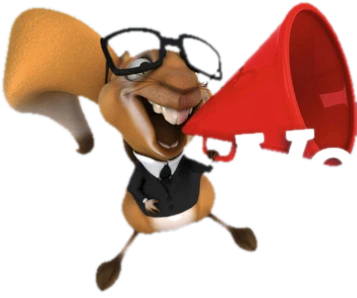
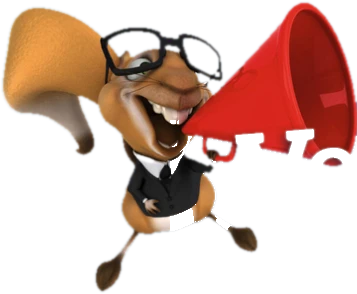
Eichhörnchen nur noch ganz: zwei vollständige Posen aus dem Kanzlei-Material

diff --git a/index.html b/index.html
@@ -51,7 +51,7 @@
     <h1 id="hero-h"><span data-only="klar">Steuern. <em>Persönlich</em> beraten.</span><span data-only="nuss">Wir knacken Ihre <em>Steuernuss.</em></span></h1>
     <p class="hero-satz"><span data-only="klar">Familienunternehmen, Freiberufler und Privatpersonen. Zwei Büros, feste Ansprechpartner, Belege per App.</span><span data-only="nuss">Für Familienunternehmen, Freiberufler und Privatpersonen. Zwei Büros, feste Ansprechpartner, Belege per App.</span></p>
     <div class="hero-knoepfe"><a class="btn" href="kontakt.html">Nachricht schreiben</a><a class="btn btn-zweit" href="digital.html">Belege senden</a></div>
-    <div data-only="nuss"><picture><source srcset="img/eich-eichel.webp" type="image/webp"><img class="hero-figur eich-hero" src="img/eich-eichel.png" alt="" width="344" height="390" loading="lazy"></picture></div>
+    <div data-only="nuss"><picture><source srcset="img/eich-ganz.webp" type="image/webp"><img class="hero-figur eich-hero" src="img/eich-ganz.png" alt="" width="344" height="506" loading="lazy"></picture></div>
   </div>
   <div class="hero-bilder">
     <figure class="b1"><picture><source srcset="img/empfang.webp" type="image/webp"><img src="img/empfang.jpg" alt="Empfang der Kanzlei in Neuenkirchen mit Holzbuchstaben „Willkommen“ und dem Logo an der Wand" width="920" height="404"></picture><figcaption>Empfang, Alphons-Hecking-Platz 11</figcaption></figure>
@@ -80,7 +80,7 @@
   </div>
 </section>
 
-<section class="abschnitt ein digital-figur" aria-labelledby="dp-h"><div class="wrap spalten-2">
+<section class="abschnitt ein" aria-labelledby="dp-h"><div class="wrap spalten-2">
   <div><span class="nummer">Persönlich</span><h2 id="dp-h">Feste Ansprechpartner. Zwei Büros.</h2>
     <div class="portraits">
   <figure><picture><source srcset="img/frank-bode.webp" type="image/webp"><img src="img/frank-bode.jpg" alt="Frank Bode" width="400" height="400" loading="lazy"></picture><figcaption><b>Frank Bode</b>Steuerberater, Partner seit 2011</figcaption></figure>
@@ -93,7 +93,7 @@
     <p>Mit der App „Meine Steuern“ fotografieren Sie Belege, wenn Sie sie in der Hand haben, und senden sie direkt an uns. Kein Belegesammeln am Jahresende. Über die Belegzentrale tauschen Sie Unterlagen sicher aus und erhalten ein digitales Belegarchiv. Bei Fragen am Rechner verbinden wir uns per TeamViewer.</p>
     <ul class="haken"><li>App für Android und iPhone, kostenlos</li><li>Belegzentrale mit Login über die Website</li><li>Fernwartung per TeamViewer</li><li>Formulare zum Herunterladen</li></ul>
     <p style="margin-top:1.5rem"><a class="btn btn-zweit" href="digital.html">So funktioniert die App</a></p></div>
-</div><div data-only="nuss"><picture><source srcset="img/eich-sparschwein.webp" type="image/webp"><img class="hero-figur eich-digital" src="img/eich-sparschwein.png" alt="" width="280" height="317" loading="lazy"></picture></div></section>
+</div></section>
 
 <section class="abschnitt abschnitt-flaeche ein" aria-labelledby="orte-h"><div class="wrap">
   <span class="nummer">Standorte</span><h2 id="orte-h">Neuenkirchen und Metelen</h2>
@@ -106,7 +106,7 @@
 <section class="abschnitt karriere ein" aria-labelledby="job-h"><div class="wrap spalten-text">
   <div><span class="nummer">Karriere</span><h2 id="job-h">Knacken Sie mit uns die Steuernüsse.</h2></div>
   <div><p class="gross">Wir bilden aus und freuen uns über Bewerbungen als Steuerfachangestellte, Bilanzbuchhalter und für die Ausbildung. Bewerbungen nimmt Frank Bode entgegen.</p><p><a class="btn" href="karriere.html">Zur Karriereseite</a></p></div>
-</div><div data-only="nuss"><picture><source srcset="img/eich-megafon.webp" type="image/webp"><img class="hero-figur hoernchen-karriere" src="img/eich-megafon.png" alt="" width="357" height="298" loading="lazy"></picture></div></section>
+</div><div data-only="nuss"><picture><source srcset="img/eich-megafon.webp" type="image/webp"><img class="hero-figur hoernchen-karriere" src="img/eich-megafon.png" alt="" width="357" height="294" loading="lazy"></picture></div></section>
 
 <section class="abschnitt ein" id="kontakt" aria-labelledby="kontakt-h"><div class="wrap kompakt">
   <div><span class="nummer">Kontakt</span><h2 id="kontakt-h">Schreiben Sie uns.</h2><p class="leise">Telefon oder E-Mail genügt, wir melden uns zu den Öffnungszeiten. Vertrauliche Unterlagen bitte über die <a href="digital.html">App oder die Belegzentrale</a>.</p><p>Oder direkt: <a href="tel:+4959739490" data-tel>05973 94 90-0</a><br><a href="mailto:info@stb-neuenkirchen.de" data-mail>info@stb-neuenkirchen.de</a></p></div>

diff --git a/karriere.html b/karriere.html
@@ -48,7 +48,7 @@
 <section class="abschnitt karriere" aria-labelledby="k-h"><div class="wrap spalten-text">
   <div><span class="nummer">Karriere</span><h1 id="k-h">Knacken Sie mit uns die Steuernüsse.</h1></div>
   <div><p class="gross">Wir sind eine Steuerberatungsgesellschaft in Neuenkirchen und Metelen mit Mandanten aus diversen Sparten. Bei uns erwarten Sie abwechslungsreiche Aufgaben bei der Betreuung von Mandantenbuchhaltungen aller Rechtsformen.</p><p><a class="btn" href="#kontakt">In zwei Minuten bewerben</a></p></div>
-</div><div data-only="nuss"><picture><source srcset="img/eich-megafon.webp" type="image/webp"><img class="hero-figur hoernchen-karriere" src="img/eich-megafon.png" alt="" width="357" height="298" loading="lazy"></picture></div></section>
+</div><div data-only="nuss"><picture><source srcset="img/eich-megafon.webp" type="image/webp"><img class="hero-figur hoernchen-karriere" src="img/eich-megafon.png" alt="" width="357" height="294" loading="lazy"></picture></div></section>
 <section class="abschnitt"><div class="wrap spalten-3">
   <div><h2 style="font-size:1.25rem">Wir freuen uns über Bewerbungen als</h2><ul class="haken"><li>Steuerfachangestellte (m/w/d), Vollzeit oder Teilzeit</li><li>Bilanzbuchhalter (m/w/d)</li><li>Auszubildende zur/zum Steuerfachangestellten</li><li>Initiativbewerbung</li></ul></div>
   <div><h2 style="font-size:1.25rem">Was Sie mitbringen</h2><ul class="haken"><li>Abgeschlossene Ausbildung als Steuerfachangestellte/r oder Bilanzbuchhalter/in</li><li>Erfahrung in Finanz- und Lohnbuchhaltung</li><li>Sicherer Umgang mit DATEV, Word und Excel</li><li>Freude am Kontakt mit Mandanten</li><li>Für die Ausbildung: Interesse an Zahlen und Gesetzen, sorgfältiges Arbeiten</li></ul></div>

diff --git a/css/nuss.css b/css/nuss.css
@@ -39,8 +39,8 @@
 @media (max-width:900px){[data-design="nuss"] .hero-raster{grid-template-columns:1fr}}
 [data-design="nuss"] .hero-text{position:relative;padding-bottom:clamp(1rem,6vw,5rem);padding-right:clamp(8rem,17vw,13.5rem)}
 [data-design="nuss"] .hero h1 em{font-style:normal;color:var(--akzent);display:inline-block;border-bottom:.12em solid var(--akzent-2);line-height:1.05}
-[data-design="nuss"] .hero .eich-hero{position:absolute;right:0;bottom:0;width:clamp(8rem,16vw,13rem);pointer-events:none}
-@media (max-width:900px){[data-design="nuss"] .hero .eich-hero{right:0;width:7.5rem}[data-design="nuss"] .hero-text{padding-right:0;padding-bottom:9.5rem}}
+[data-design="nuss"] .hero .eich-hero{position:absolute;right:0;bottom:0;width:clamp(8rem,15vw,12rem);pointer-events:none}
+@media (max-width:900px){[data-design="nuss"] .hero .eich-hero{right:0;width:7.5rem}[data-design="nuss"] .hero-text{padding-right:0;padding-bottom:11rem}}
 [data-design="nuss"] .hero-bilder .b1 img{outline:.6rem solid #fff;outline-offset:-.6rem}
 [data-design="nuss"] .hero-bilder .b4{background:var(--akzent-2);color:#fff;border-left:0}
 [data-design="nuss"] .hero-bilder .b4 strong{color:#f0d3b0}
